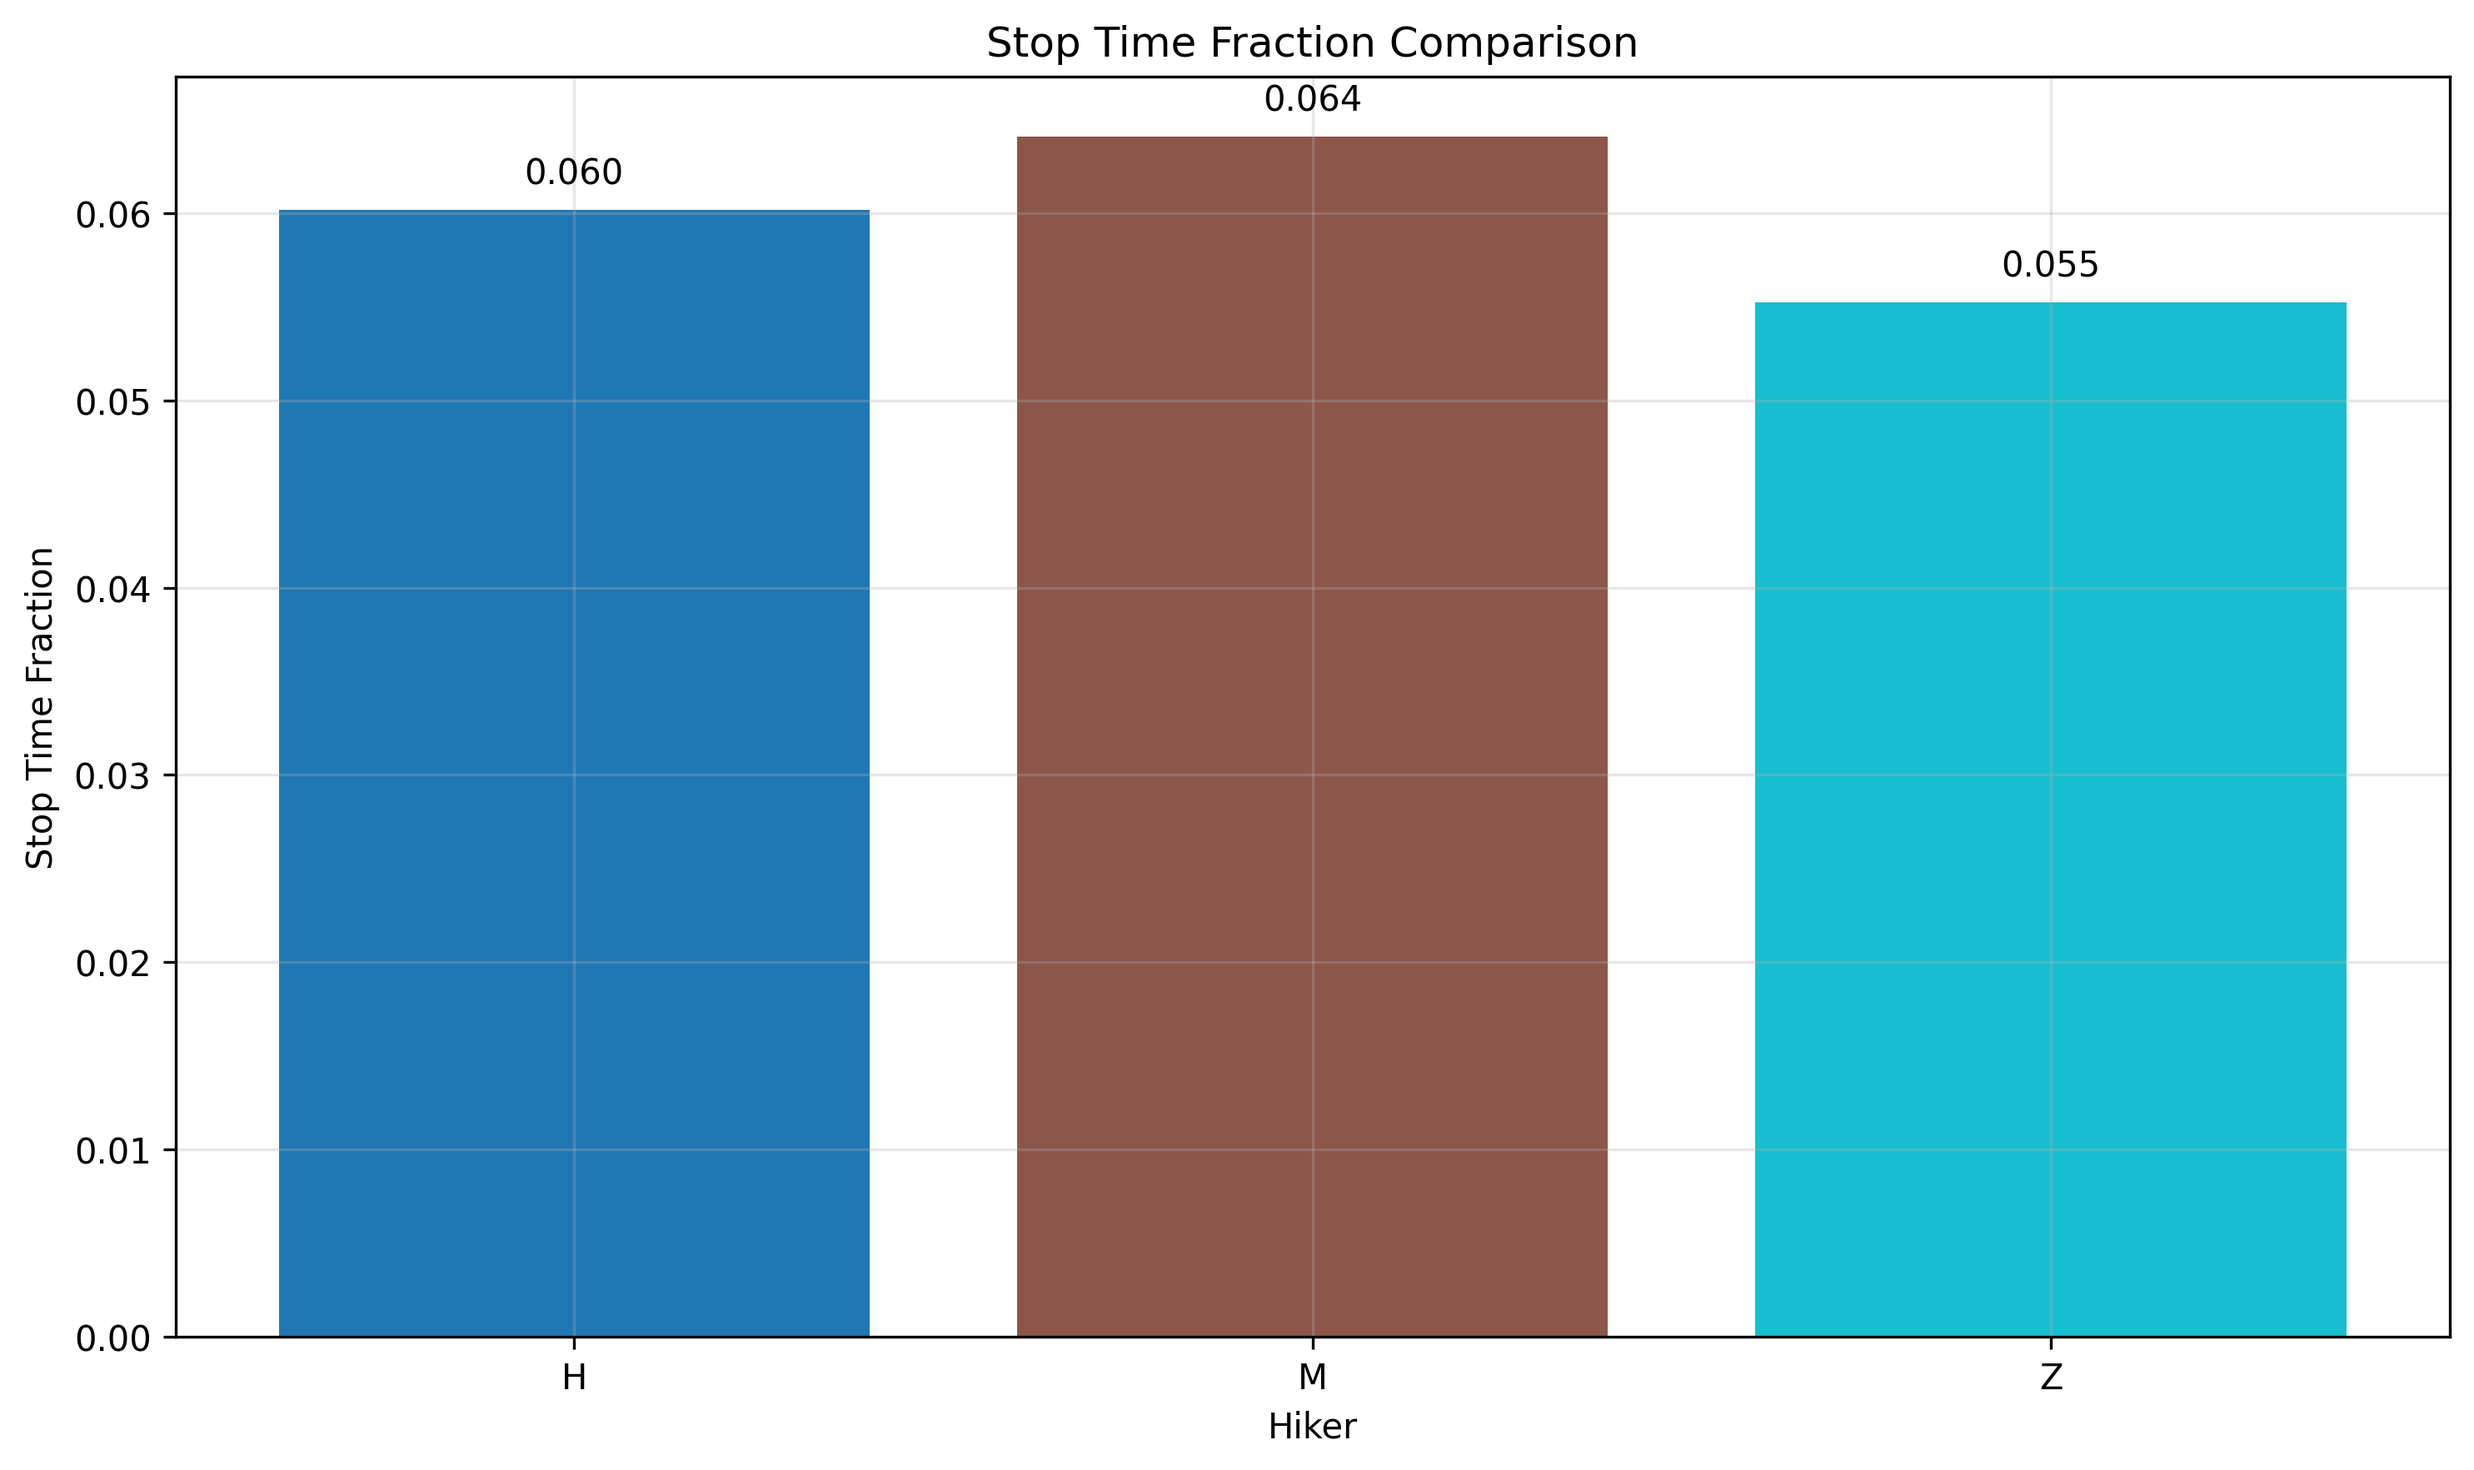
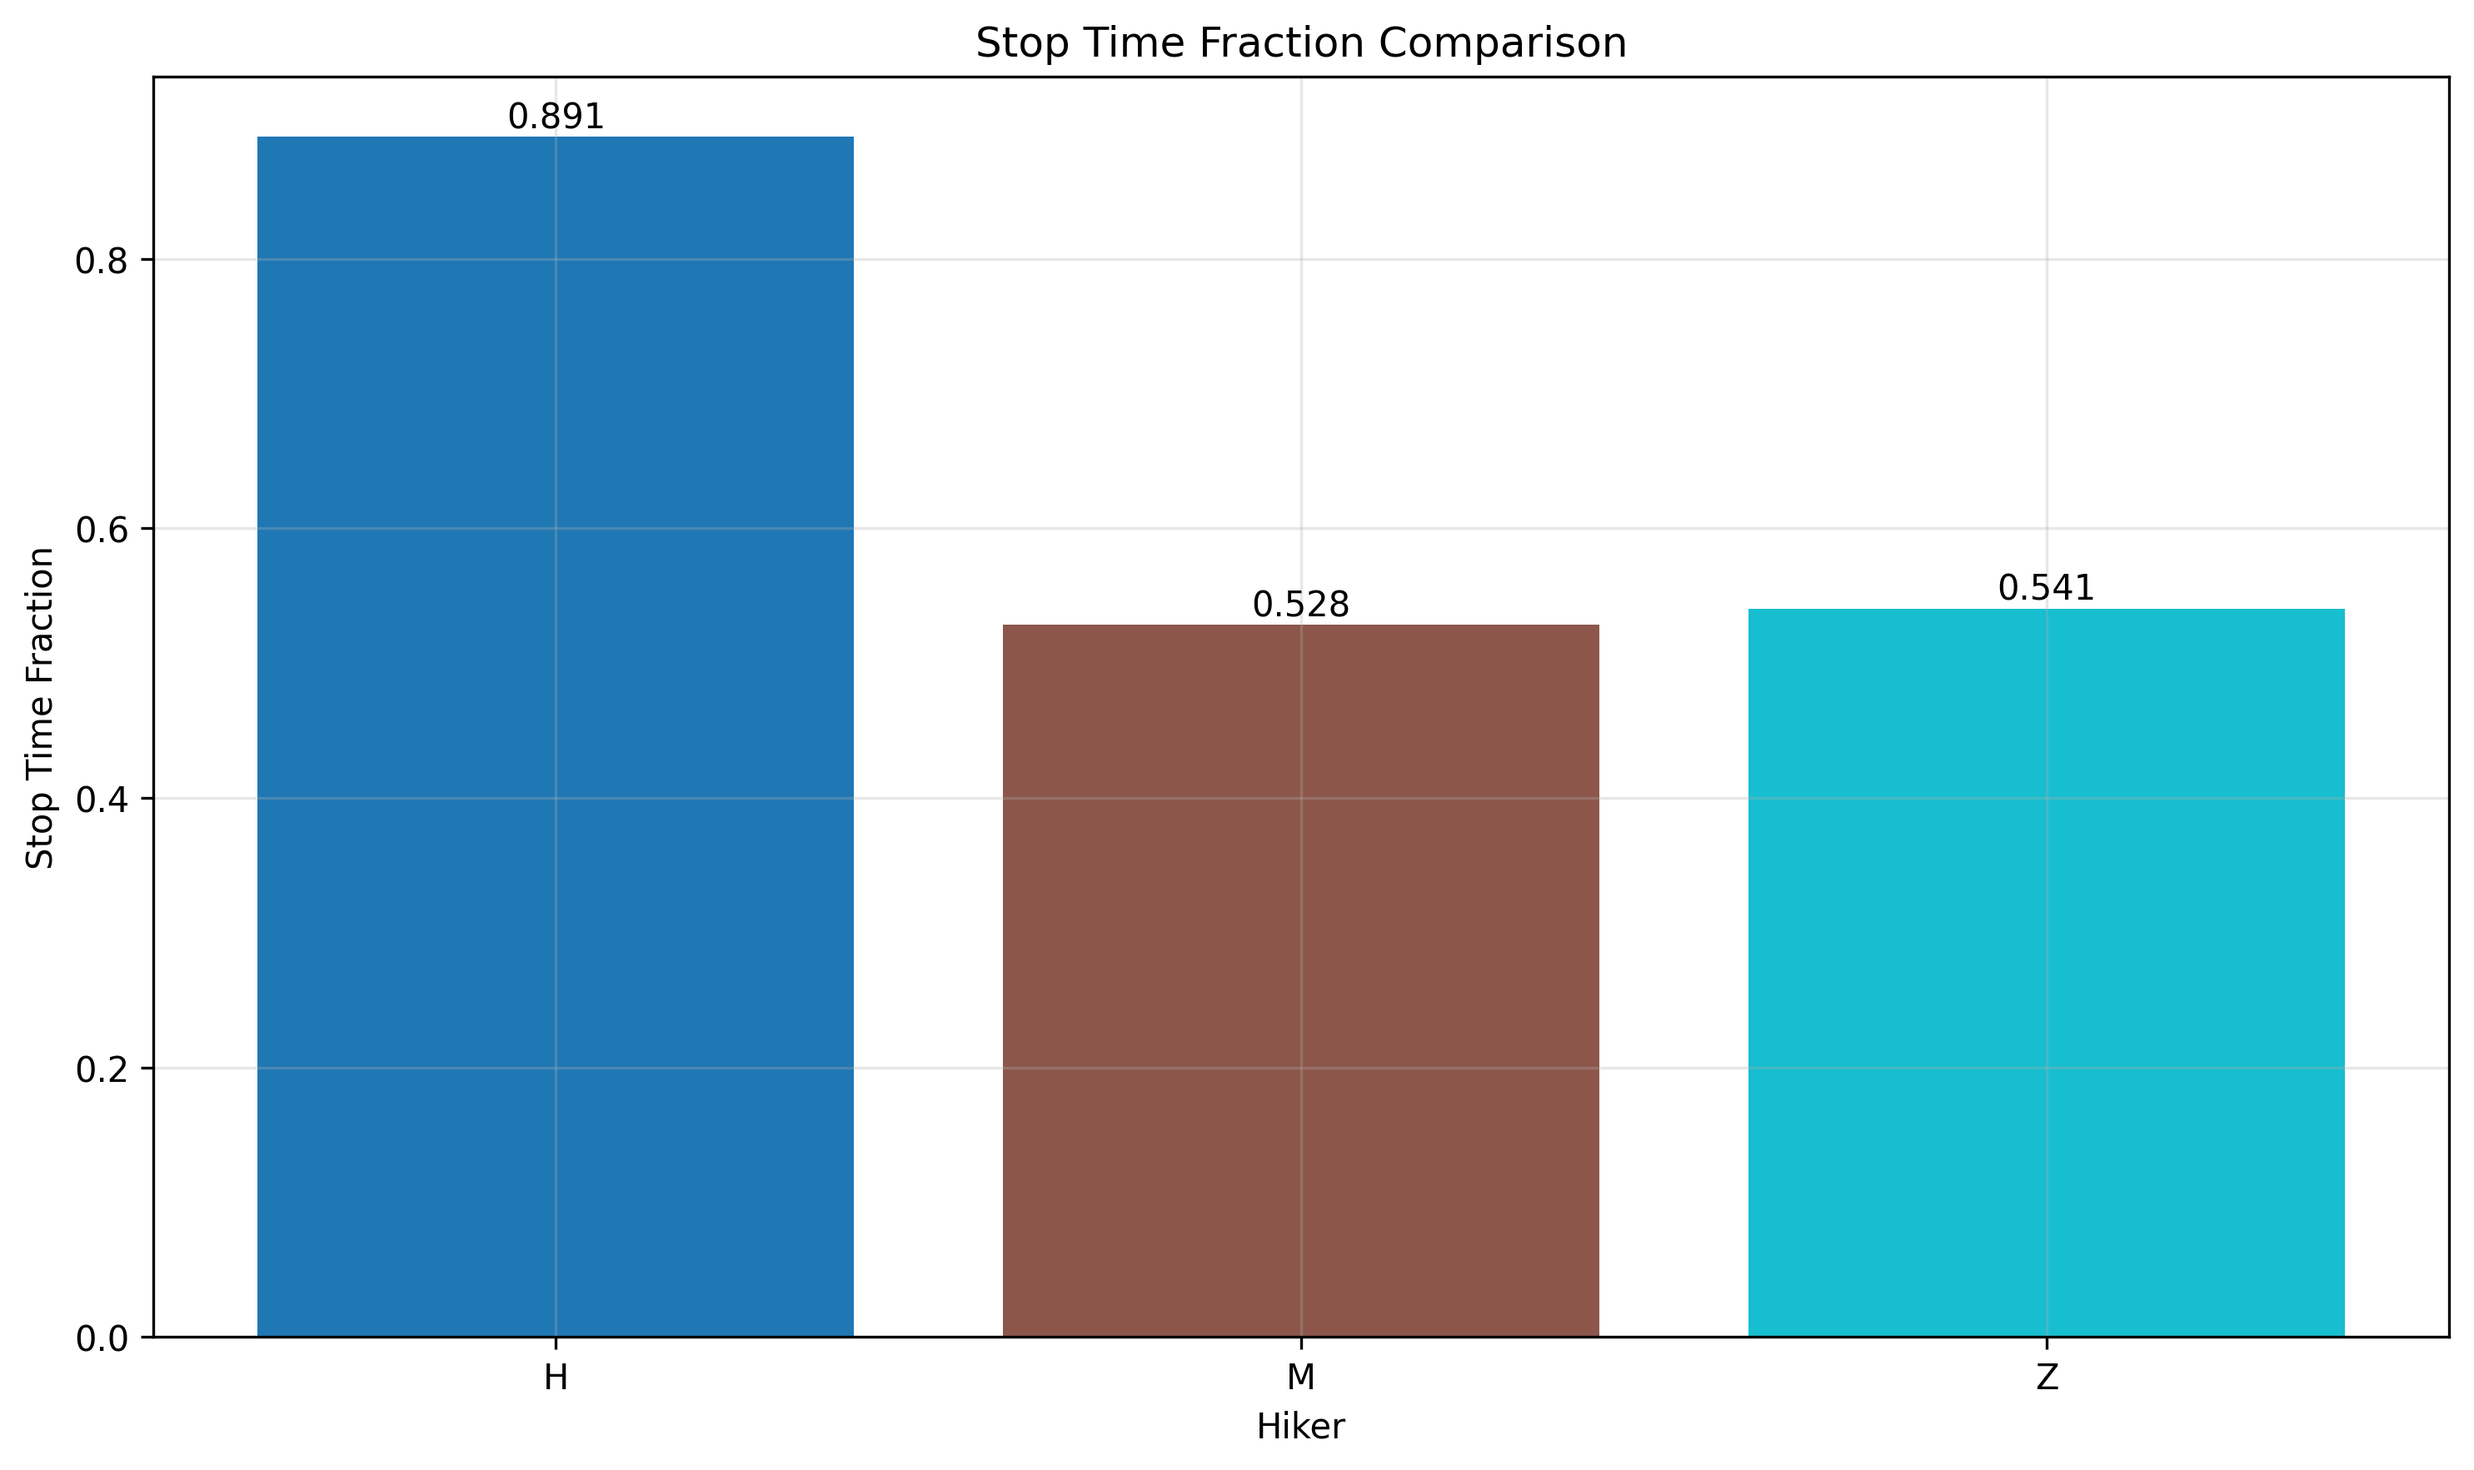
Add configuration file for velocity analysis parameters and update metrics calculations

diff --git a/velocity_analysis.py b/velocity_analysis.py
@@ -24,6 +24,7 @@ from mpl_toolkits.mplot3d import Axes3D
 from matplotlib.colors import ListedColormap
 import math
 from datetime import datetime, timedelta
+import config_velocity
 
 def lla_to_enu(lat, lon, alt, lat_ref, lon_ref, alt_ref):
     """
@@ -72,8 +73,11 @@ def parse_gpx_file(file_path):
                 # Only include points after the specified start time (2025-10-07T22:12:12Z)
                 # Handle timezone-aware comparison
                 if point.time:
-                    # Create timezone-aware version of the start time if needed
-                    start_time = datetime(2025, 10, 7, 22, 12, 12)
+                    # Parse the start time from config
+                    filter_time_str = config_velocity.FILTER_START_TIME
+                    # Format: YYYY-MM-DDTHH:MM:SSZ
+                    start_time = datetime.strptime(filter_time_str, "%Y-%m-%dT%H:%M:%SZ")
+                    
                     if point.time.tzinfo is not None:
                         # If point.time is timezone-aware, make start_time timezone-aware too
                         from datetime import timezone
@@ -217,21 +221,22 @@ def calculate_tortuosity(gpx_points):
     
     return tortuosity, total_path_length, straight_line_distance
 
-def calculate_stop_metrics(gpx_points, velocity_vectors, min_speed_threshold=0.2, min_stop_duration=10):
+def calculate_stop_metrics(gpx_points, velocity_vectors):
     """
     Calculate stop-related metrics: stop count, total stop time, stop time fraction
     
     Parameters:
     gpx_points: List of dictionaries with 'latitude', 'longitude', 'elevation', 'time'
     velocity_vectors: List of (vx, vy, vz, dt) tuples
-    min_speed_threshold: Minimum speed to consider as stopped (m/s)
-    min_stop_duration: Minimum duration to consider as a stop (seconds)
     
     Returns:
     stop_count: Number of stops
     total_stop_time: Total time spent stopped (seconds)
     stop_time_fraction: Fraction of total time spent stopped
     """
+    min_speed_threshold = config_velocity.MIN_STOP_SPEED_THRESHOLD
+    min_stop_duration = config_velocity.MIN_STOP_DURATION
+    
     if len(velocity_vectors) == 0 or len(gpx_points) < 2:
         return 0, 0, 0
     
@@ -274,7 +279,7 @@ def calculate_stop_metrics(gpx_points, velocity_vectors, min_speed_threshold=0.2
     
     return stop_count, total_stop_time, stop_time_fraction
 
-def calculate_leader_score(all_gpx_points, time_interval=10):
+def calculate_leader_score(all_gpx_points):
     """
     Calculate leader score for multiple hikers based on who leads at different times.
     Uses linear interpolation to get synchronized positions at regular time intervals.
@@ -282,11 +287,12 @@ def calculate_leader_score(all_gpx_points, time_interval=10):
     
     Parameters:
     all_gpx_points: List of lists, each containing GPX points for one hiker
-    time_interval: Time interval in seconds for interpolation
     
     Returns:
     leader_scores: List of scores for each hiker
     """
+    time_interval = config_velocity.LEADER_TIME_INTERVAL
+    
     if len(all_gpx_points) < 2:
         return [0] * len(all_gpx_points)  # No comparison possible with less than 2 hikers
     
@@ -432,7 +438,7 @@ def create_velocity_histogram(hiker_velocities, hiker_speeds, hiker_names):
         print("No speed data available for plotting")
         return fig, ax
         
-    bins = np.linspace(0, max(all_speeds) * 1.1, 30)  # 30 bins
+    bins = np.linspace(0, max(all_speeds) * 1.1, config_velocity.VELOCITY_HISTOGRAM_BINS)
     
     # Get colors for different hikers
     colors = plt.cm.tab10(np.linspace(0, 1, len(hiker_names)))
@@ -698,35 +704,33 @@ def main():
     
     # Create summary table as PNG
     print("Creating summary table...")
-    fig, ax = plt.subplots(figsize=(12, len(hiker_names) * 0.8 + 2))
+    # Adjust figure size for transposed table
+    fig, ax = plt.subplots(figsize=(config_velocity.SUMMARY_TABLE_FIGURE_WIDTH, config_velocity.SUMMARY_TABLE_FIGURE_HEIGHT))
     
     # Hide axes
     ax.axis('tight')
     ax.axis('off')
     
-    # Prepare data for the table
-    columns = ['Hiker', 'Total Points', 'Tortuosity', 'Path Length (m)', 'Straight Dist (m)', 
+    # Prepare data for the transposed table
+    # Rows will be metrics, columns will be hikers
+    metrics = ['Total Points', 'Tortuosity', 'Path Length (m)', 'Straight Dist (m)', 
                'Stop Count', 'Stop Time (s)', 'Stop Fraction', 'Leader Score', 'Comprehensive Score']
     
     cell_data = []
-    for i, name in enumerate(hiker_names):
-        row = [
-            name,
-            f"{len(all_gpx_points[i])}",
-            f"{tortuosities[i]:.3f}",
-            f"{total_path_lengths[i]:.2f}",
-            f"{straight_line_distances[i]:.2f}",
-            f"{stop_counts[i]}",
-            f"{total_stop_times[i]:.2f}",
-            f"{stop_time_fractions[i]:.3f}",
-            f"{leader_scores[i]:.3f}",
-            f"{comprehensive_scores[i]:.3f}"
-        ]
-        cell_data.append(row)
+    cell_data.append([f"{len(gpx_points)}" for gpx_points in all_gpx_points])  # Total Points
+    cell_data.append([f"{t:.3f}" for t in tortuosities])  # Tortuosity
+    cell_data.append([f"{l:.2f}" for l in total_path_lengths])  # Path Length
+    cell_data.append([f"{d:.2f}" for d in straight_line_distances])  # Straight Dist
+    cell_data.append([f"{c}" for c in stop_counts])  # Stop Count
+    cell_data.append([f"{t:.2f}" for t in total_stop_times])  # Stop Time
+    cell_data.append([f"{f:.3f}" for f in stop_time_fractions])  # Stop Fraction
+    cell_data.append([f"{s:.3f}" for s in leader_scores])  # Leader Score
+    cell_data.append([f"{c:.3f}" for c in comprehensive_scores])  # Comprehensive Score
     
-    # Create table
+    # Create transposed table
     table = ax.table(cellText=cell_data,
-                     colLabels=columns,
+                     rowLabels=metrics,
+                     colLabels=hiker_names,
                      cellLoc='center',
                      loc='center',
                      bbox=[0, 0, 1, 1])
@@ -734,18 +738,25 @@ def main():
     # Format the table
     table.auto_set_font_size(False)
     table.set_fontsize(9)
-    table.scale(1.2, 2)
+    table.scale(1.5, 2)  # Increase both width and height scaling
     
-    # Color alternate rows
-    for i in range(len(cell_data)):
-        for j in range(len(columns)):
-            if i % 2 == 1:  # Odd rows (0-indexed)
-                table[(i + 1, j)].set_facecolor('#f0f0f0')  # Light gray
+    # Color rows for better readability
+    for i in range(len(metrics)):
+        for j in range(len(hiker_names)):
+            if i % 2 == 0:  # Even rows (0-indexed)
+                table[(i + 1, j)].set_facecolor('#f8f8f8')  # Light gray for even rows
+            else:
+                table[(i + 1, j)].set_facecolor('#ffffff')  # White for odd rows
     
-    # Bold header row
-    for j in range(len(columns)):
+    # Bold header row (hiker names)
+    for j in range(len(hiker_names)):
         table[(0, j)].set_text_props(weight='bold')
         table[(0, j)].set_facecolor('#d0e0ff')  # Light blue for header
+    
+    # Bold header column (metrics)
+    for i in range(len(metrics)):
+        table[(i + 1, -1)].set_text_props(weight='bold')
+        table[(i + 1, -1)].set_facecolor('#e0e0f0')  # Light purple for row labels
     
     ax.set_title('Hiking Metrics Summary Table', fontsize=16, pad=20)
     

diff --git a/config_velocity.py b/config_velocity.py
@@ -1,0 +1,19 @@
+"""
+Configuration file for velocity analysis parameters
+"""
+# Stop detection parameters
+MIN_STOP_SPEED_THRESHOLD = 1.0  # Minimum speed to consider as stopped (m/s)
+MIN_STOP_DURATION = 10  # Minimum duration to consider as a stop (seconds)
+
+# Leader score calculation parameters
+LEADER_TIME_INTERVAL = 10  # Time interval for interpolation in seconds
+
+# Filtering parameters
+FILTER_START_TIME = "2025-10-07T22:12:12Z"  # Start time for filtering
+
+# Velocity histogram parameters
+VELOCITY_HISTOGRAM_BINS = 30
+
+# Table display parameters
+SUMMARY_TABLE_FIGURE_WIDTH = 15
+SUMMARY_TABLE_FIGURE_HEIGHT = 10
